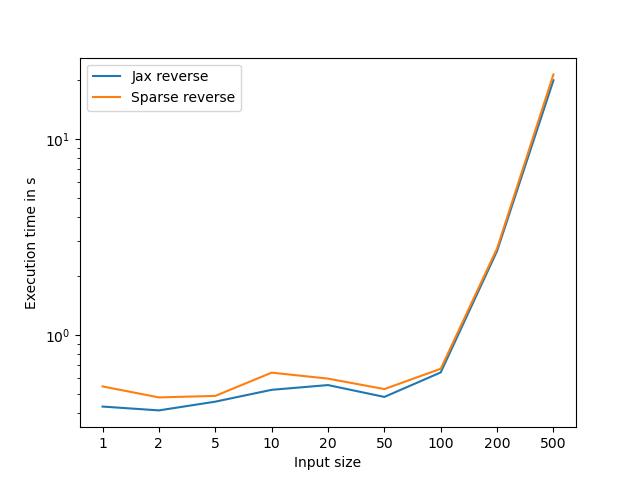
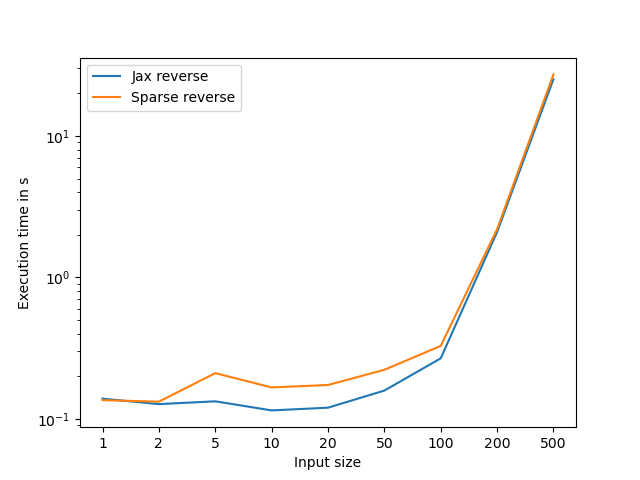
More performance

diff --git a/tests/interpreter/performance_measurements.py b/tests/interpreter/performance_measurements.py
@@ -129,7 +129,7 @@ def Perceptron():
     jax_rev_f = jax.jit(jax.jacrev(Perceptron, argnums=(0, 1, 2, 3, 4, 5)))
       
     duration = 1000
-    scales = [1, 2, 5, 10, 20, 50, 100, 200, 500]
+    scales = [1, 2, 5, 10, 20, 50, 100, 200, 500, 1000, 2000]
 
     for s in scales:
         x = jnp.ones(4*s)
@@ -144,19 +144,22 @@ def Perceptron():
         W2 = jrand.normal(w2key, (4*s, 8*s))
         b2 = jrand.normal(b2key, (4*s,))
         
-        st = time.time()
-        for _ in range(duration):
-            key, subkey = jrand.split(key, 2)
-            x = jrand.normal(subkey, (4*s,))
-            grad = jac_rev_f(x, W1, b1, W2, b2, y)[1]
-        rev.append(time.time() - st)
+        rev.append(timeit.timeit(lambda: jac_rev_f(x, W1, b1, W2, b2, y), number=duration))
+        jax_rev.append(timeit.timeit(lambda: jax_rev_f(x, W1, b1, W2, b2, y), number=duration))
+        
+        # st = time.time()
+        # for _ in range(duration):
+        #     key, subkey = jrand.split(key, 2)
+        #     x = jrand.normal(subkey, (4*s,))
+        #     grad = jac_rev_f(x, W1, b1, W2, b2, y)[1]
+        # rev.append(time.time() - st)
 
-        st = time.time()
-        for _ in range(duration):
-            key, subkey = jrand.split(key, 2)
-            x = jrand.normal(subkey, (4*s,))
-            grad = jax_rev_f(x, W1, b1, W2, b2, y)[1]
-        jax_rev.append(time.time() - st)
+        # st = time.time()
+        # for _ in range(duration):
+        #     key, subkey = jrand.split(key, 2)
+        #     x = jrand.normal(subkey, (4*s,))
+        #     grad = jax_rev_f(x, W1, b1, W2, b2, y)[1]
+        # jax_rev.append(time.time() - st)
 
     plt.figure()
     plt.yscale("log")
@@ -171,7 +174,7 @@ def Perceptron():
     plt.legend()
     plt.savefig("Perceptron.png")
 
-simple()
-Helmholtz()
+# simple()
+# Helmholtz()
 Perceptron()
 
